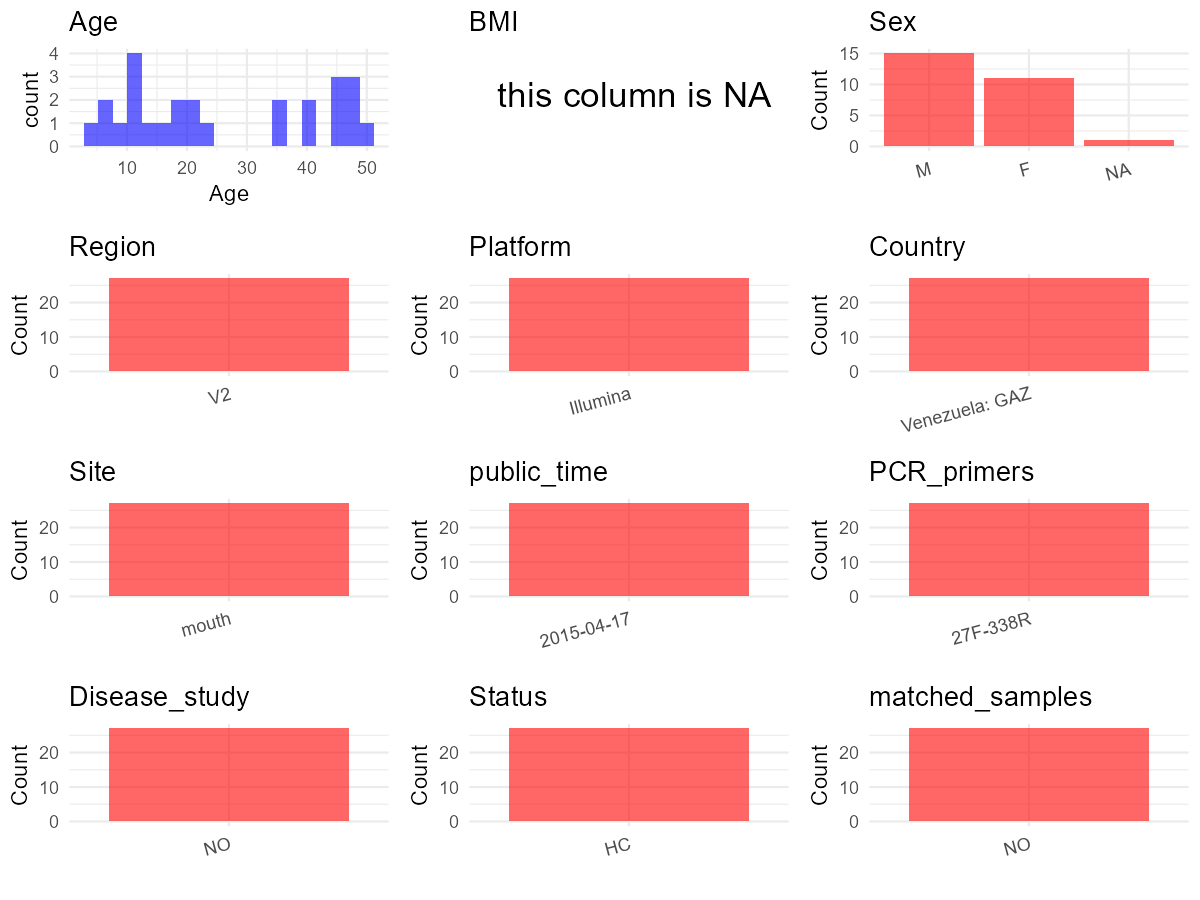
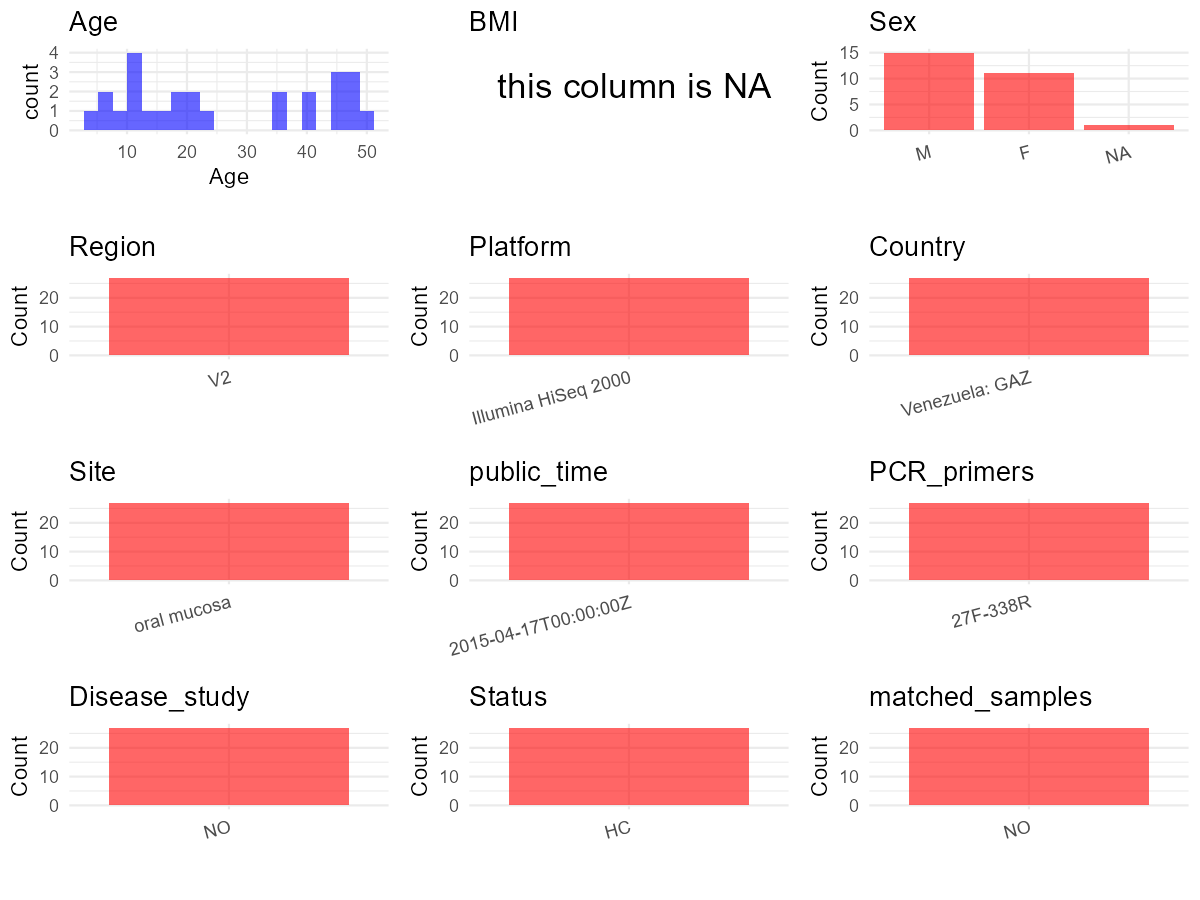
upload files for PRJEB7825

diff --git a/data/projects/PRJEB7825/metadata_curation.md b/data/projects/PRJEB7825/metadata_curation.md
@@ -267,10 +267,10 @@ metadata <- data.frame(
   BMI = NA,
   Sex=initial_meta$sex,
   Region = initial_meta$target_subfragment..exp.,
-  Platform = initial_meta$platform..exp.,
+  Platform = "Illumina HiSeq 2000",
   Country = initial_meta$COUNTRY,
-  Site = gsub("UBERON:", "", initial_meta$body_site),
-  public_time = "2015-04-17",
+  Site = replace(initial_meta$body_site, initial_meta$body_site == "UBERON:mouth", "oral mucosa"),
+  public_time = initial_meta$ReleaseDate,
   PCR_primers = "27F-338R",
   stringsAsFactors = FALSE
 )
@@ -294,7 +294,7 @@ metadata$Disease_study <- "NO"
 metadata$Status <- "HC"
 
 #get subjects id with Saliva available
-keep_subjects<-subset(metadata,Site %in% "mouth")
+keep_subjects<-subset(metadata,Site %in% "oral mucosa")
 #remove subjects without Saliva samples
 metadata<-subset(metadata,sample_name %in% keep_subjects$sample_name)
 #get subjects sampling counts
@@ -324,7 +324,7 @@ print(paste("Number of unique sample names:", length(unique(metadata$sample_name
 knitr::include_graphics("Metadata_Summary.png")
 ```
 
-![](Metadata_Summary.png)<!-- -->
+<img src="Metadata_Summary.png" width="1200" />
 
 # Step 6: Finalize and Export the Metadata
 
@@ -341,27 +341,34 @@ write.csv(metadata, file = "metadata.csv", quote = FALSE)
 head(metadata)
 ```
 
-    ##    BioProject       Run  sample_name Age BMI Sex Region Platform        Country
-    ## 40  PRJEB7825 ERR687975 10052.MG.O10  40  NA   M     V2 Illumina Venezuela: GAZ
-    ## 41  PRJEB7825 ERR687976 10052.MG.O11  11  NA   M     V2 Illumina Venezuela: GAZ
-    ## 42  PRJEB7825 ERR687977 10052.MG.O12  45  NA   F     V2 Illumina Venezuela: GAZ
-    ## 43  PRJEB7825 ERR687978 10052.MG.O13  48  NA   F     V2 Illumina Venezuela: GAZ
-    ## 44  PRJEB7825 ERR687979 10052.MG.O14  47  NA   F     V2 Illumina Venezuela: GAZ
-    ## 45  PRJEB7825 ERR687980 10052.MG.O16  45  NA   F     V2 Illumina Venezuela: GAZ
-    ##     Site public_time PCR_primers                                     title
-    ## 40 mouth  2015-04-17    27F-338R The microbiome of uncontacted Amerindians
-    ## 41 mouth  2015-04-17    27F-338R The microbiome of uncontacted Amerindians
-    ## 42 mouth  2015-04-17    27F-338R The microbiome of uncontacted Amerindians
-    ## 43 mouth  2015-04-17    27F-338R The microbiome of uncontacted Amerindians
-    ## 44 mouth  2015-04-17    27F-338R The microbiome of uncontacted Amerindians
-    ## 45 mouth  2015-04-17    27F-338R The microbiome of uncontacted Amerindians
-    ##    Disease_study Status matched_samples
-    ## 40            NO     HC              NO
-    ## 41            NO     HC              NO
-    ## 42            NO     HC              NO
-    ## 43            NO     HC              NO
-    ## 44            NO     HC              NO
-    ## 45            NO     HC              NO
+    ##    BioProject       Run  sample_name Age BMI Sex Region            Platform
+    ## 40  PRJEB7825 ERR687975 10052.MG.O10  40  NA   M     V2 Illumina HiSeq 2000
+    ## 41  PRJEB7825 ERR687976 10052.MG.O11  11  NA   M     V2 Illumina HiSeq 2000
+    ## 42  PRJEB7825 ERR687977 10052.MG.O12  45  NA   F     V2 Illumina HiSeq 2000
+    ## 43  PRJEB7825 ERR687978 10052.MG.O13  48  NA   F     V2 Illumina HiSeq 2000
+    ## 44  PRJEB7825 ERR687979 10052.MG.O14  47  NA   F     V2 Illumina HiSeq 2000
+    ## 45  PRJEB7825 ERR687980 10052.MG.O16  45  NA   F     V2 Illumina HiSeq 2000
+    ##           Country        Site          public_time PCR_primers
+    ## 40 Venezuela: GAZ oral mucosa 2015-04-17T00:00:00Z    27F-338R
+    ## 41 Venezuela: GAZ oral mucosa 2015-04-17T00:00:00Z    27F-338R
+    ## 42 Venezuela: GAZ oral mucosa 2015-04-17T00:00:00Z    27F-338R
+    ## 43 Venezuela: GAZ oral mucosa 2015-04-17T00:00:00Z    27F-338R
+    ## 44 Venezuela: GAZ oral mucosa 2015-04-17T00:00:00Z    27F-338R
+    ## 45 Venezuela: GAZ oral mucosa 2015-04-17T00:00:00Z    27F-338R
+    ##                                        title Disease_study Status
+    ## 40 The microbiome of uncontacted Amerindians            NO     HC
+    ## 41 The microbiome of uncontacted Amerindians            NO     HC
+    ## 42 The microbiome of uncontacted Amerindians            NO     HC
+    ## 43 The microbiome of uncontacted Amerindians            NO     HC
+    ## 44 The microbiome of uncontacted Amerindians            NO     HC
+    ## 45 The microbiome of uncontacted Amerindians            NO     HC
+    ##    matched_samples
+    ## 40              NO
+    ## 41              NO
+    ## 42              NO
+    ## 43              NO
+    ## 44              NO
+    ## 45              NO
 
 ## Notes for Students:
 
